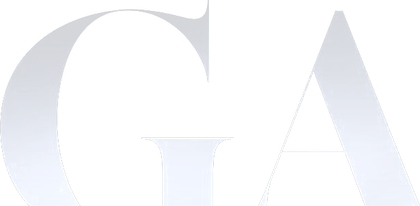
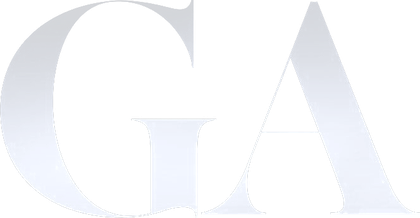
Corrige o recorte do monograma GA e usa o wordmark original no menu

Changed region(s): [[0.0, 0.0, 0.4952, 0.5825], [0.681, 0.0, 0.8976, 0.5243], [0.0, 0.6117, 0.031, 0.6699]]

diff --git a/index.html b/index.html
@@ -87,7 +87,8 @@ header{
 header.solid{background:rgba(3,25,51,.96);border-bottom-color:var(--line)}
 .nav{display:flex;align-items:center;justify-content:space-between;height:78px}
 .logo{display:flex;align-items:center;gap:12px}
-.logo .mark{height:30px;width:auto;flex:0 0 auto}
+.logo .mark{height:32px;width:auto;flex:0 0 auto}
+.logo .wordmark{height:26px;width:auto;flex:0 0 auto}
 .logo .txt{display:flex;flex-direction:column;line-height:1}
 .logo .txt b{font-family:'DM Serif Display';font-weight:400;font-size:1.02rem;letter-spacing:.01em}
 .logo .txt small{font-size:.52rem;letter-spacing:.34em;text-transform:uppercase;color:var(--cream-faint);margin-top:4px}
@@ -341,7 +342,7 @@ footer{background:var(--navy-2);border-top:1px solid var(--line);padding:64px 0 
   <div class="wrap nav">
     <a href="#top" class="logo">
       <img class="mark" src="assets/marca/ga-monograma.png" alt="Garcia &amp; Antunes">
-      <span class="txt"><b>Garcia &amp; Antunes</b><small>Advogados Associados</small></span>
+      <img class="wordmark" src="assets/marca/ga-wordmark.png" alt="Garcia &amp; Antunes — Advogados Associados">
     </a>
     <nav class="menu">
       <a href="#areas">Áreas de atuação</a>
@@ -712,7 +713,7 @@ footer{background:var(--navy-2);border-top:1px solid var(--line);padding:64px 0 
       <div>
         <a href="#top" class="logo">
           <img class="mark" src="assets/marca/ga-monograma.png" alt="Garcia &amp; Antunes">
-          <span class="txt"><b>Garcia &amp; Antunes</b><small>Advogados Associados</small></span>
+          <img class="wordmark" src="assets/marca/ga-wordmark.png" alt="Garcia &amp; Antunes — Advogados Associados">
         </a>
         <p class="about">Sociedade de advogados dedicada ao motorista, sediada em Santos/SP.</p>
         <div class="socials">